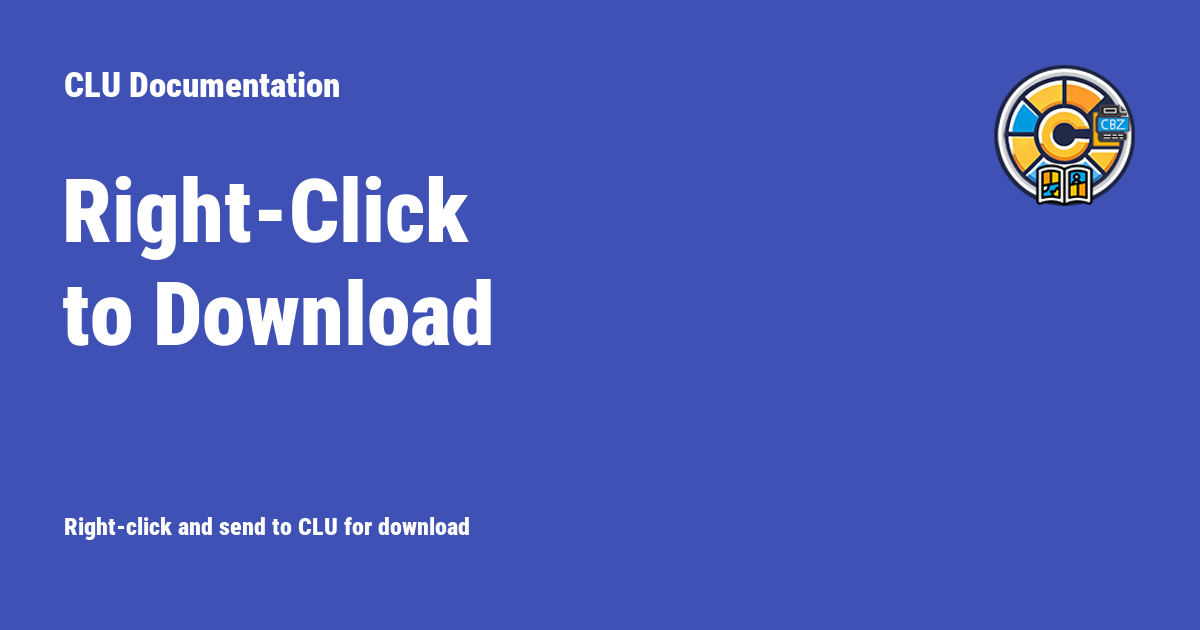
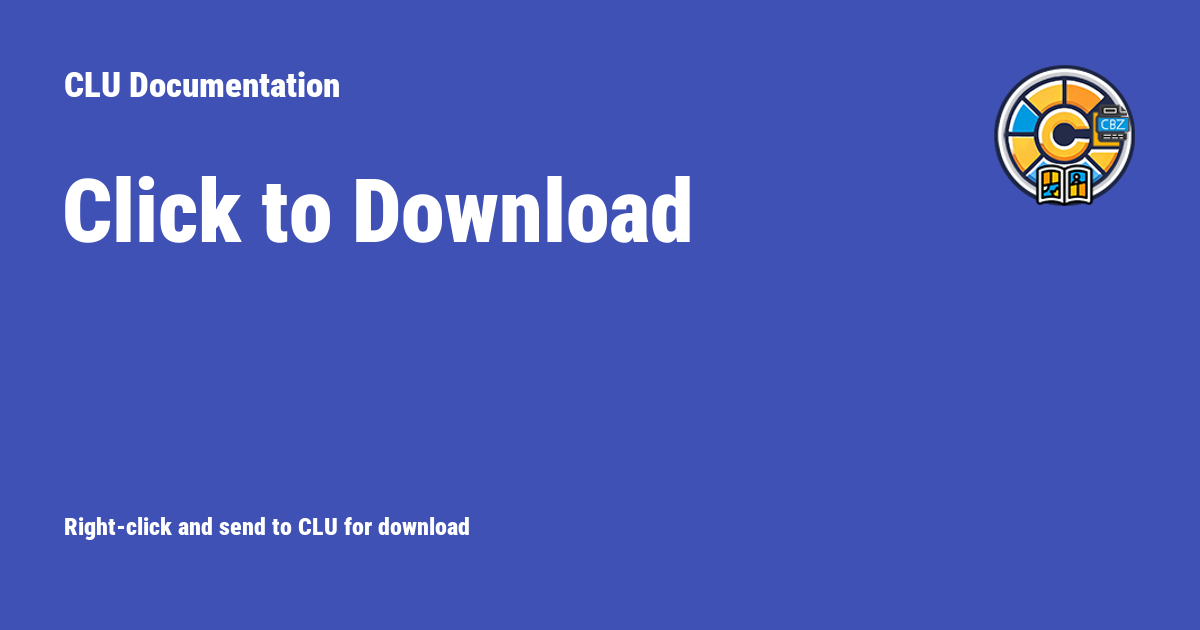
Doc Updates for New Features

Changed region(s): [[0.0308, 0.2714, 0.5858, 0.573]]

diff --git a/docs/features/collection/reading.md b/docs/features/collection/reading.md
@@ -1,6 +1,6 @@
 # Reading Comics
 
-![Reading a Comic](../../assets/collection/reading.png)
+![Reading a Comic](../../assets/collection/reading.png){: .center-image}
 /// caption
 Reading a Comic
 ///
@@ -9,7 +9,10 @@ When browsing your collection, you can click on a comic to read it. The reader w
 
 ## Read vs Unread Status
 
-![Read vs Unread Status](../../assets/collection/read_unread.png)
+![Read vs Unread Status](../../assets/collection/read_unread.png){: .center-image}
+/// caption
+Read vs Unread Status
+///
 
 When you read a comic, it will be marked as read and saved in your history. This is done automatically when you reach 90% of the issue.
 
@@ -25,3 +28,14 @@ It has the following features:
 3. **Page Count**: The reader will show the page count of the issue along with the current page number.
 4. **Progress Bar**: The reader will show a progress bar, indicating how far you have read. When this reaches 90%, the issue will be marked as read and saved in your history.
 5. **Jump to Page**: The dots along the bottom allow you to jump to a specific page in the issue.
+
+### Resume Reading
+
+![Resume Reading](../../assets/collection/resume.png){: .center-image}
+/// caption
+Resume Reading
+///
+
+If you close the reader before reaching 90%, CLU will Bookmark your place and ask if you want to resume reading when you open that file again 
+
+You can manually set a bookmark by clicking on the icon <i class="bi bi-bookmark text-primary"></i> in the top-right corner. 

diff --git a/docs/features/file-downloads/send.md b/docs/features/file-downloads/send.md
@@ -2,15 +2,27 @@
 description: Right-click and send to CLU for download
 ---
 
-# Right-Click to Download
+# Click to Download
 
-## GetComics.org
+## Supported Sites
 
-Currently, GetComics.org is the only supported site for downloads.&#x20;
+Currently, GetComics.org and [Comic Book Plus](https://comicbookplus.com) are supported for downloads.
 
-As you browse the site and find a book you'd like to read, you'll see several download links. Right click one of the [supported download providers](send.md#supported-providers) and you should see `Send to CLU` in your context menu
+As you browse these sites and find a book you'd like to read, v2 of the extension will append a `CLU` icon next to the supported download link(s).
 
-![Send download to CLU](../../assets/download/send.png)
+![Click to send to CLU](../../assets/download/append.png){: .center-image}
+/// caption
+Click to send to CLU
+///
+
+Clicking this will send the download request to CLU and you'll see it show up in the download status page.
+
+Some older style links may not have the icon appended. In this case, you can right click one of the [supported download providers](send.md#supported-providers) and you should see `Send to CLU` in your context menu
+
+![Send download to CLU](../../assets/download/send.png){: .center-image}
+/// caption
+Send download to CLU
+///
 
 You can then navigate to the Download Status page in CLU (http://localhost/status) and watch the progress of the file download
 

diff --git a/docs/features/collection/publishers.md b/docs/features/collection/publishers.md
@@ -1,8 +1,8 @@
 # Collection Browsing (Publishers)
 
-![Publisher Example Page](../../assets/collection/collection.png)
+![Publisher Example Page](../../assets/collection/header.png)
 /// caption
-Example Publisher Page with Nested Folders
+Example Publisher Page with Custom Header
 ///
 
 With CLU, you can visually browse your collection. It will load you root (/data) folder and display all folders and files in it. For documentation purposes, we'll refer to this as the "Publisher" section, but it can be any folder structure you have in your collection.
@@ -21,6 +21,10 @@ There are 3 options in the dropdown menu:
 - **Scan Files**: This will scan the folder and rebuild the database for this publisher, capturing any new files or structure changes.
 - **Generate Missing Thumbnails**: This will generate thumbnails for all folders that are missing a thumbnail. This uses the same process as [Generating Thumbnails](series.md#generating-thumbnails).
 - **Missing File Check**: This will check for missing files in the folder based on the [Directory Features Missing File Check](../directory-features/missing.md).
+
+### Custom Headers
+
+All folders support custom headers. CLU will look for an image file named `header.png`, `header.jpg`, or `header.gif` in the folder. If it finds one, it will use it as the header. Recommended image size is 2200x516 pixels.
 
 ### Custom Thumbnails
 

diff --git a/docs/features/file-management/metron.md b/docs/features/file-management/metron.md
@@ -1,0 +1,23 @@
+---
+description: How to get metadata and create ComicInfo.xml files
+---
+
+# Metron Metadata
+
+![Metron Info](../../assets/settings/metron.png){: .center-image}
+
+If you have entered a [Metron Username and Password](../app-settings/download-settings.md#metadata-api-configuration) in settings, Metron will be used to search for metadata when moving issues.
+
+!!! info "Single Issue Metadata Only"
+    The **Metron** feature only searches for metadata for a single issue. If you have multiple issues in a directory, you will need to use the [GCD Database Method](../gcd-settings/index.md) feature to process multiple issues.
+
+After reviewing metadata providers, Metron has new release data updated before other providers. When moving files, if configured, Metron will be used before falling back to ComicVine.
+
+## Metadata Added on File Move
+
+If enabled, when you move a file (or files) to a new location the metadata will be applied automatically if the following criteria are met:
+
+- There is a valid `cvinfo` file in the same directory
+- There is no `ComicInfo.xml` file
+- If there is a Comicvine ID in the `cvinfo` file, we will attempt to get the Metron ID and add that to the `cvinfo` file
+- Metron will be used to search for metadata for the issue before ComicVine

diff --git a/docs/features/file-downloads/setup.md b/docs/features/file-downloads/setup.md
@@ -4,17 +4,23 @@ description: Setup for remote download of files
 
 # Chrome Extension
 
-![Extension Image](../../assets/download/extension01.png)
+![Extension Image](../../assets/download/extension01.png){: .center-image}
+/// caption
+Extension Image
+///
 
 Once you have the [Chrome extension installed](https://chromewebstore.google.com/detail/send-link-to-clu/cpickljbofjhmhkphgdmiagkdfijlkkg), you will need to configure the options.
 
 You'll see a screen similar to this within Chrome.
 
-![Extension Settings](../../assets/download/extension02.png)
+![Extension Settings](../../assets/download/extension02.png){: .center-image}
+/// caption
+Extension Settings
+///
 
 ### API URL
 
-Visiting https://localhost/download will show you a confirmation that your API url is running and ready to accept requests.
+Visiting `https://localhost/download` will show you a confirmation that your API url is running and ready to accept requests.
 
 In order to accept requests from machines other than the one running CLU, you will need to have a tunnel, domain, VPN or other means of access setup.
 

diff --git a/docs/features/app-settings/download-settings.md b/docs/features/app-settings/download-settings.md
@@ -29,6 +29,10 @@ Various settings for calling metadata services and APIs are configured in this s
 
 Enter your Comicvine API key here to allow the app to call the Comicvine API for metadata.
 
+#### Metron Username and Password
+
+Enter your Metron username and password here to allow the app to call the [Metron API](https://metron.cloud/) for metadata.
+
 #### GCD Metadata Languages
 
 Enter a comma-separated list of languages to search for metadata on. This is used by the app to search for metadata on comics in the GCD database. Defualts to `en`. 
